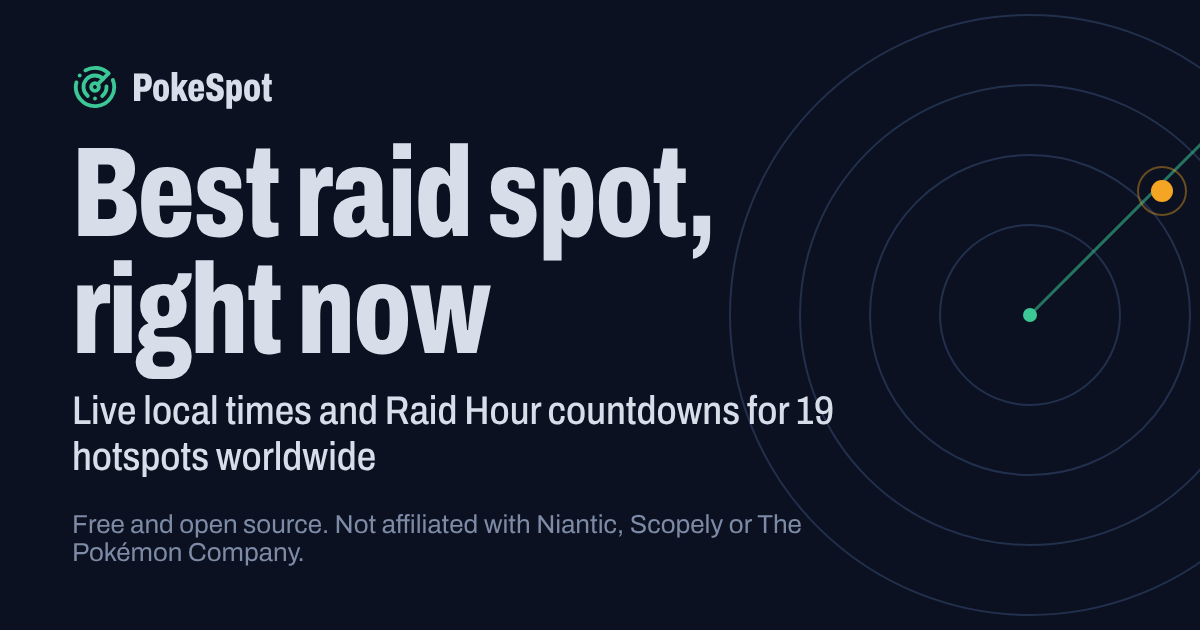
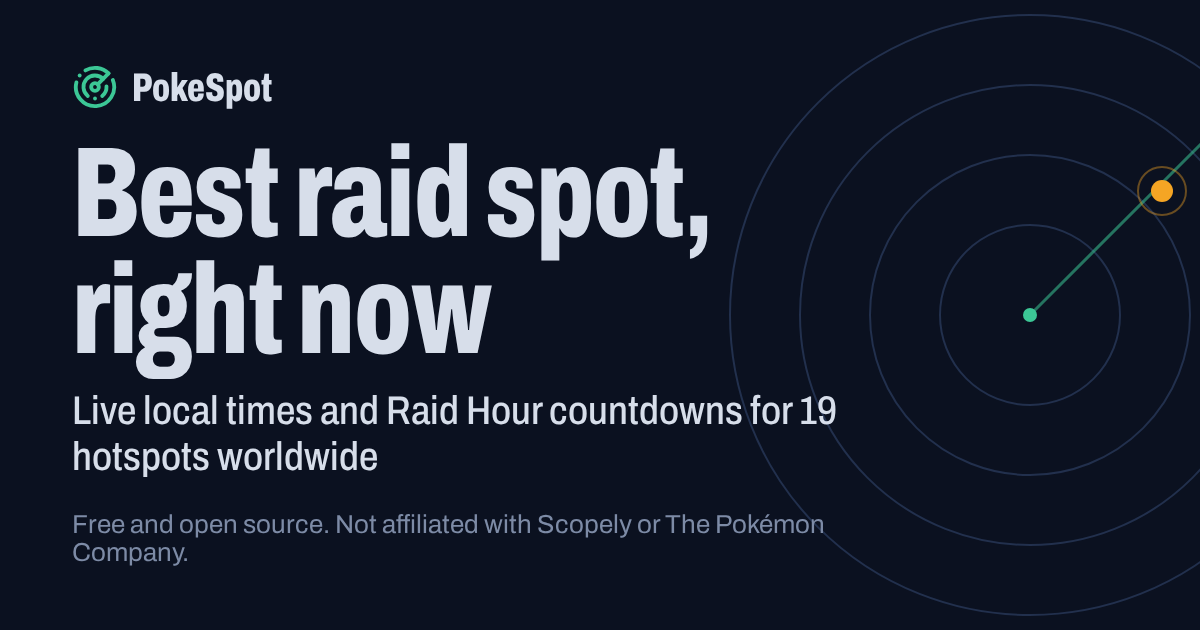
fix(footer): refer to Scopely instead of Niantic
Pokémon GO is currently operated by Scopely, so the legal copy should name
the current operator only. Updates the disclaimer in all 14 locales, the
privacy page, README and the home link-preview image.

The second paragraph now starts with "Pokémon GO is currently operated by
Scopely" instead of repeating "also not affiliated with Scopely", which read
awkwardly once the disclaimer was updated.

Campfire store URLs keep their legacy Niantic identifiers; a comment explains
why they must not be renamed.

diff --git a/src/i18n/locales/th.ts b/src/i18n/locales/th.ts
@@ -109,9 +109,9 @@ export const th: Messages = {
   },
   footer: {
     disclaimer:
-      'PokeSpot เป็นเครื่องมือที่แฟนสร้างขึ้นเพื่อติดตามช่วงเวลาเรดทั่วโลกและนัดเล่นเรดทางไกล ไม่มีส่วนเกี่ยวข้องกับ Niantic หรือ The Pokémon Company',
+      'PokeSpot เป็นเครื่องมือที่แฟนสร้างขึ้นเพื่อติดตามช่วงเวลาเรดทั่วโลกและนัดเล่นเรดทางไกล ไม่มีส่วนเกี่ยวข้องกับ Scopely หรือ The Pokémon Company',
     extra:
-      'และไม่มีส่วนเกี่ยวข้องกับ Scopely ผู้ให้บริการ Pokémon GO ในปัจจุบัน Pokémon และชื่อที่เกี่ยวข้องเป็นเครื่องหมายการค้าของเจ้าของแต่ละราย PokeSpot ไม่ได้ให้หรือแนะนำเครื่องมือเปลี่ยนตำแหน่ง โปรดเล่นตามข้อกำหนดการให้บริการของเกม เวลากิจกรรมอิงตามเวลาท้องถิ่นและอาจเปลี่ยนได้ โปรดตรวจสอบประกาศทางการ',
+      'ปัจจุบัน Pokémon GO ดำเนินการโดย Scopely Pokémon และชื่อที่เกี่ยวข้องเป็นเครื่องหมายการค้าของเจ้าของแต่ละราย PokeSpot ไม่ได้ให้หรือแนะนำเครื่องมือเปลี่ยนตำแหน่ง โปรดเล่นตามข้อกำหนดการให้บริการของเกม เวลากิจกรรมอิงตามเวลาท้องถิ่นและอาจเปลี่ยนได้ โปรดตรวจสอบประกาศทางการ',
     source: 'ซอร์สโค้ดบน GitHub (MIT)',
     privacy: 'นโยบายความเป็นส่วนตัว',
     sponsor: 'สนับสนุน PokeSpot',

diff --git a/src/i18n/locales/hi.ts b/src/i18n/locales/hi.ts
@@ -109,9 +109,9 @@ export const hi: Messages = {
   },
   footer: {
     disclaimer:
-      'PokeSpot दुनिया भर के रेड समय पर नज़र रखने और रिमोट रेड तय करने के लिए प्रशंसकों का बनाया टूल है। इसका Niantic या The Pokémon Company से कोई संबंध नहीं है।',
+      'PokeSpot दुनिया भर के रेड समय पर नज़र रखने और रिमोट रेड तय करने के लिए प्रशंसकों का बनाया टूल है। इसका Scopely या The Pokémon Company से कोई संबंध नहीं है।',
     extra:
-      'Pokémon GO के मौजूदा संचालक Scopely से भी इसका कोई संबंध नहीं है। Pokémon और संबंधित नाम उनके संबंधित मालिकों के ट्रेडमार्क हैं। PokeSpot लोकेशन बदलने वाले टूल न देता है न सुझाता है; कृपया गेम की सेवा शर्तों के अनुसार खेलें। इवेंट का समय स्थानीय समय के अनुसार है और बदल सकता है, इसलिए आधिकारिक घोषणाएँ देखें।',
+      'Pokémon GO वर्तमान में Scopely द्वारा संचालित है। Pokémon और संबंधित नाम उनके संबंधित मालिकों के ट्रेडमार्क हैं। PokeSpot लोकेशन बदलने वाले टूल न देता है न सुझाता है; कृपया गेम की सेवा शर्तों के अनुसार खेलें। इवेंट का समय स्थानीय समय के अनुसार है और बदल सकता है, इसलिए आधिकारिक घोषणाएँ देखें।',
     source: 'GitHub पर सोर्स कोड (MIT)',
     privacy: 'गोपनीयता नीति',
     sponsor: 'PokeSpot को सपोर्ट करें',

diff --git a/src/i18n/locales/ja.ts b/src/i18n/locales/ja.ts
@@ -107,9 +107,9 @@ export const ja: Messages = {
   },
   footer: {
     disclaimer:
-      'PokeSpotは世界のレイド時間帯を確認し、リモートレイドを調整するためのファンメイドツールです。NianticおよびThe Pokémon Companyとは関係ありません。',
+      'PokeSpotは世界のレイド時間帯を確認し、リモートレイドを調整するためのファンメイドツールです。ScopelyおよびThe Pokémon Companyとは関係ありません。',
     extra:
-      'Pokémon GOの現在の運営会社であるScopelyとも関係ありません。Pokémonおよび関連する名称は各権利者の商標です。PokeSpotは位置情報を変更するツールを提供・推奨しません。ゲームの利用規約を守ってプレイしてください。イベント時間は現地時刻の慣例で、変更される場合があります。公式のお知らせを確認してください。',
+      'Pokémon GOは現在Scopelyが運営しています。Pokémonおよび関連する名称は各権利者の商標です。PokeSpotは位置情報を変更するツールを提供・推奨しません。ゲームの利用規約を守ってプレイしてください。イベント時間は現地時刻の慣例で、変更される場合があります。公式のお知らせを確認してください。',
     source: 'GitHubのソース(MIT)',
     privacy: 'プライバシーポリシー',
     sponsor: 'PokeSpotを支援する',

diff --git a/src/i18n/locales/fr.ts b/src/i18n/locales/fr.ts
@@ -107,9 +107,9 @@ export const fr: Messages = {
   },
   footer: {
     disclaimer:
-      'PokeSpot est un outil créé par des fans pour suivre les créneaux de raids dans le monde et coordonner les raids à distance. Sans lien avec Niantic ni The Pokémon Company.',
+      'PokeSpot est un outil créé par des fans pour suivre les créneaux de raids dans le monde et coordonner les raids à distance. Sans lien avec Scopely ni The Pokémon Company.',
     extra:
-      'Sans lien non plus avec Scopely, l’éditeur actuel de Pokémon GO. Pokémon et les noms associés sont des marques de leurs propriétaires respectifs. PokeSpot ne fournit ni ne recommande d’outil de modification de position ; respectez les conditions d’utilisation du jeu. Les horaires d’événements suivent l’heure locale et peuvent changer : consultez les annonces officielles.',
+      'Pokémon GO est actuellement exploité par Scopely. Pokémon et les noms associés sont des marques de leurs propriétaires respectifs. PokeSpot ne fournit ni ne recommande d’outil de modification de position ; respectez les conditions d’utilisation du jeu. Les horaires d’événements suivent l’heure locale et peuvent changer : consultez les annonces officielles.',
     source: 'Code source sur GitHub (MIT)',
     privacy: 'Politique de confidentialité',
     sponsor: 'Soutenir PokeSpot',

diff --git a/src/i18n/locales/tr.ts b/src/i18n/locales/tr.ts
@@ -109,9 +109,9 @@ export const tr: Messages = {
   },
   footer: {
     disclaimer:
-      'PokeSpot, dünya genelindeki baskın saatlerini takip etmek ve uzaktan baskınları koordine etmek için hayranlar tarafından yapılmış bir araçtır. Niantic veya The Pokémon Company ile bağlantılı değildir.',
+      'PokeSpot, dünya genelindeki baskın saatlerini takip etmek ve uzaktan baskınları koordine etmek için hayranlar tarafından yapılmış bir araçtır. Scopely veya The Pokémon Company ile bağlantılı değildir.',
     extra:
-      'Pokémon GO’nun şu anki işletmecisi Scopely ile de bağlantılı değildir. Pokémon ve ilgili adlar, sahiplerinin ticari markalarıdır. PokeSpot konum değiştirme araçları sağlamaz ve önermez; lütfen oyunun Hizmet Şartları’na uygun oyna. Etkinlik saatleri yerel saate göredir ve değişebilir, resmi duyuruları kontrol et.',
+      'Pokémon GO şu anda Scopely tarafından işletilmektedir. Pokémon ve ilgili adlar, sahiplerinin ticari markalarıdır. PokeSpot konum değiştirme araçları sağlamaz ve önermez; lütfen oyunun Hizmet Şartları’na uygun oyna. Etkinlik saatleri yerel saate göredir ve değişebilir, resmi duyuruları kontrol et.',
     source: 'GitHub’da kaynak kod (MIT)',
     privacy: 'Gizlilik politikası',
     sponsor: 'PokeSpot’a destek ol',

diff --git a/src/i18n/locales/es.ts b/src/i18n/locales/es.ts
@@ -107,9 +107,9 @@ export const es: Messages = {
   },
   footer: {
     disclaimer:
-      'PokeSpot es una herramienta hecha por fans para seguir los horarios de incursiones en el mundo y coordinar incursiones a distancia. No está afiliada a Niantic ni a The Pokémon Company.',
+      'PokeSpot es una herramienta hecha por fans para seguir los horarios de incursiones en el mundo y coordinar incursiones a distancia. No está afiliada a Scopely ni a The Pokémon Company.',
     extra:
-      'Tampoco está afiliada a Scopely, la operadora actual de Pokémon GO. Pokémon y los nombres relacionados son marcas de sus respectivos titulares. PokeSpot no ofrece ni recomienda herramientas para cambiar de ubicación; juega respetando los Términos de servicio. Los horarios de eventos siguen la hora local y pueden cambiar, así que consulta los anuncios oficiales.',
+      'Pokémon GO está operado actualmente por Scopely. Pokémon y los nombres relacionados son marcas de sus respectivos titulares. PokeSpot no ofrece ni recomienda herramientas para cambiar de ubicación; juega respetando los Términos de servicio. Los horarios de eventos siguen la hora local y pueden cambiar, así que consulta los anuncios oficiales.',
     source: 'Código fuente en GitHub (MIT)',
     privacy: 'Política de privacidad',
     sponsor: 'Apoya a PokeSpot',

diff --git a/src/i18n/locales/de.ts b/src/i18n/locales/de.ts
@@ -107,9 +107,9 @@ export const de: Messages = {
   },
   footer: {
     disclaimer:
-      'PokeSpot ist ein Fan-Tool, um weltweite Raid-Zeiten zu verfolgen und Fern-Raids zu koordinieren. Nicht verbunden mit Niantic oder The Pokémon Company.',
+      'PokeSpot ist ein Fan-Tool, um weltweite Raid-Zeiten zu verfolgen und Fern-Raids zu koordinieren. Nicht verbunden mit Scopely oder The Pokémon Company.',
     extra:
-      'Ebenfalls nicht verbunden mit Scopely, dem aktuellen Betreiber von Pokémon GO. Pokémon und alle zugehörigen Namen sind Marken ihrer jeweiligen Inhaber. PokeSpot bietet keine Tools zur Standortänderung an und empfiehlt sie nicht; bitte halte dich an die Nutzungsbedingungen des Spiels. Event-Zeiten richten sich nach der Ortszeit und können sich ändern, prüfe daher die offiziellen Ankündigungen.',
+      'Pokémon GO wird derzeit von Scopely betrieben. Pokémon und alle zugehörigen Namen sind Marken ihrer jeweiligen Inhaber. PokeSpot bietet keine Tools zur Standortänderung an und empfiehlt sie nicht; bitte halte dich an die Nutzungsbedingungen des Spiels. Event-Zeiten richten sich nach der Ortszeit und können sich ändern, prüfe daher die offiziellen Ankündigungen.',
     source: 'Quellcode auf GitHub (MIT)',
     privacy: 'Datenschutzerklärung',
     sponsor: 'PokeSpot unterstützen',

diff --git a/src/i18n/locales/pt-BR.ts b/src/i18n/locales/pt-BR.ts
@@ -107,9 +107,9 @@ export const ptBR: Messages = {
   },
   footer: {
     disclaimer:
-      'O PokeSpot é uma ferramenta feita por fãs para acompanhar os horários de reides no mundo e coordenar reides remotas. Não é afiliado à Niantic nem à The Pokémon Company.',
+      'O PokeSpot é uma ferramenta feita por fãs para acompanhar os horários de reides no mundo e coordenar reides remotas. Não é afiliado à Scopely nem à The Pokémon Company.',
     extra:
-      'Também não é afiliado à Scopely, atual operadora de Pokémon GO. Pokémon e os nomes relacionados são marcas de seus respectivos donos. O PokeSpot não oferece nem recomenda ferramentas de mudança de localização; jogue respeitando os Termos de Serviço. Os horários de eventos seguem o horário local e podem mudar, então confira os anúncios oficiais.',
+      'O Pokémon GO é atualmente operado pela Scopely. Pokémon e os nomes relacionados são marcas de seus respectivos donos. O PokeSpot não oferece nem recomenda ferramentas de mudança de localização; jogue respeitando os Termos de Serviço. Os horários de eventos seguem o horário local e podem mudar, então confira os anúncios oficiais.',
     source: 'Código-fonte no GitHub (MIT)',
     privacy: 'Política de privacidade',
     sponsor: 'Apoie o PokeSpot',

diff --git a/src/i18n/locales/ko.ts b/src/i18n/locales/ko.ts
@@ -107,9 +107,9 @@ export const ko: Messages = {
   },
   footer: {
     disclaimer:
-      'PokeSpot은 전 세계 레이드 시간대를 확인하고 원격 레이드를 조율하기 위한 팬 제작 도구입니다. Niantic 및 The Pokémon Company와 관련이 없습니다.',
+      'PokeSpot은 전 세계 레이드 시간대를 확인하고 원격 레이드를 조율하기 위한 팬 제작 도구입니다. Scopely 및 The Pokémon Company와 관련이 없습니다.',
     extra:
-      '현재 Pokémon GO 운영사인 Scopely와도 관련이 없습니다. Pokémon 및 관련 명칭은 각 권리자의 상표입니다. PokeSpot은 위치 변경 도구를 제공하거나 권장하지 않으니 게임 이용약관을 지켜 주세요. 이벤트 시간은 현지 시각 기준이며 바뀔 수 있으니 공식 공지를 확인하세요.',
+      '현재 Pokémon GO는 Scopely가 운영합니다. Pokémon 및 관련 명칭은 각 권리자의 상표입니다. PokeSpot은 위치 변경 도구를 제공하거나 권장하지 않으니 게임 이용약관을 지켜 주세요. 이벤트 시간은 현지 시각 기준이며 바뀔 수 있으니 공식 공지를 확인하세요.',
     source: 'GitHub 소스 (MIT)',
     privacy: '개인정보처리방침',
     sponsor: 'PokeSpot 후원하기',

diff --git a/src/i18n/locales/it.ts b/src/i18n/locales/it.ts
@@ -107,9 +107,9 @@ export const it: Messages = {
   },
   footer: {
     disclaimer:
-      'PokeSpot è uno strumento creato da fan per seguire gli orari dei raid nel mondo e coordinare i raid a distanza. Non affiliato a Niantic o a The Pokémon Company.',
+      'PokeSpot è uno strumento creato da fan per seguire gli orari dei raid nel mondo e coordinare i raid a distanza. Non affiliato a Scopely o a The Pokémon Company.',
     extra:
-      'Non affiliato nemmeno a Scopely, l’attuale gestore di Pokémon GO. Pokémon e i nomi correlati sono marchi dei rispettivi proprietari. PokeSpot non fornisce né consiglia strumenti per cambiare posizione; gioca nel rispetto dei Termini di servizio. Gli orari degli eventi seguono l’ora locale e possono cambiare: controlla gli annunci ufficiali.',
+      'Pokémon GO è attualmente gestito da Scopely. Pokémon e i nomi correlati sono marchi dei rispettivi proprietari. PokeSpot non fornisce né consiglia strumenti per cambiare posizione; gioca nel rispetto dei Termini di servizio. Gli orari degli eventi seguono l’ora locale e possono cambiare: controlla gli annunci ufficiali.',
     source: 'Codice sorgente su GitHub (MIT)',
     privacy: 'Informativa sulla privacy',
     sponsor: 'Sostieni PokeSpot',

diff --git a/src/i18n/locales/id.ts b/src/i18n/locales/id.ts
@@ -109,9 +109,9 @@ export const id: Messages = {
   },
   footer: {
     disclaimer:
-      'PokeSpot adalah alat buatan penggemar untuk memantau jam raid di seluruh dunia dan mengoordinasikan raid jarak jauh. Tidak berafiliasi dengan Niantic atau The Pokémon Company.',
+      'PokeSpot adalah alat buatan penggemar untuk memantau jam raid di seluruh dunia dan mengoordinasikan raid jarak jauh. Tidak berafiliasi dengan Scopely atau The Pokémon Company.',
     extra:
-      'Juga tidak berafiliasi dengan Scopely, operator Pokémon GO saat ini. Pokémon dan nama terkait adalah merek dagang milik pemiliknya masing-masing. PokeSpot tidak menyediakan atau menganjurkan alat pengubah lokasi; mainlah sesuai Ketentuan Layanan game. Waktu acara mengikuti waktu setempat dan bisa berubah, jadi periksa pengumuman resmi.',
+      'Pokémon GO saat ini dioperasikan oleh Scopely. Pokémon dan nama terkait adalah merek dagang milik pemiliknya masing-masing. PokeSpot tidak menyediakan atau menganjurkan alat pengubah lokasi; mainlah sesuai Ketentuan Layanan game. Waktu acara mengikuti waktu setempat dan bisa berubah, jadi periksa pengumuman resmi.',
     source: 'Kode sumber di GitHub (MIT)',
     privacy: 'Kebijakan privasi',
     sponsor: 'Dukung PokeSpot',

diff --git a/src/i18n/locales/en.ts b/src/i18n/locales/en.ts
@@ -110,9 +110,9 @@ export const en: Messages = {
   },
   footer: {
     disclaimer:
-      'PokeSpot is a fan-made utility for tracking global raid hours and coordinating remote raids. Not affiliated with Niantic or The Pokémon Company.',
+      'PokeSpot is a fan-made utility for tracking global raid hours and coordinating remote raids. Not affiliated with Scopely or The Pokémon Company.',
     extra:
-      'Also not affiliated with Scopely, the current operator of Pokémon GO. Pokémon and all related names are trademarks of their respective owners. PokeSpot doesn’t provide or endorse location-changing tools; please play within the game’s Terms of Service. Event times are local-time conventions and may change, so check official announcements.',
+      'Pokémon GO is currently operated by Scopely. Pokémon and all related names are trademarks of their respective owners. PokeSpot doesn’t provide or endorse location-changing tools; please play within the game’s Terms of Service. Event times are local-time conventions and may change, so check official announcements.',
     source: 'Source on GitHub (MIT)',
     privacy: 'Privacy policy',
     sponsor: 'Sponsor PokeSpot',
